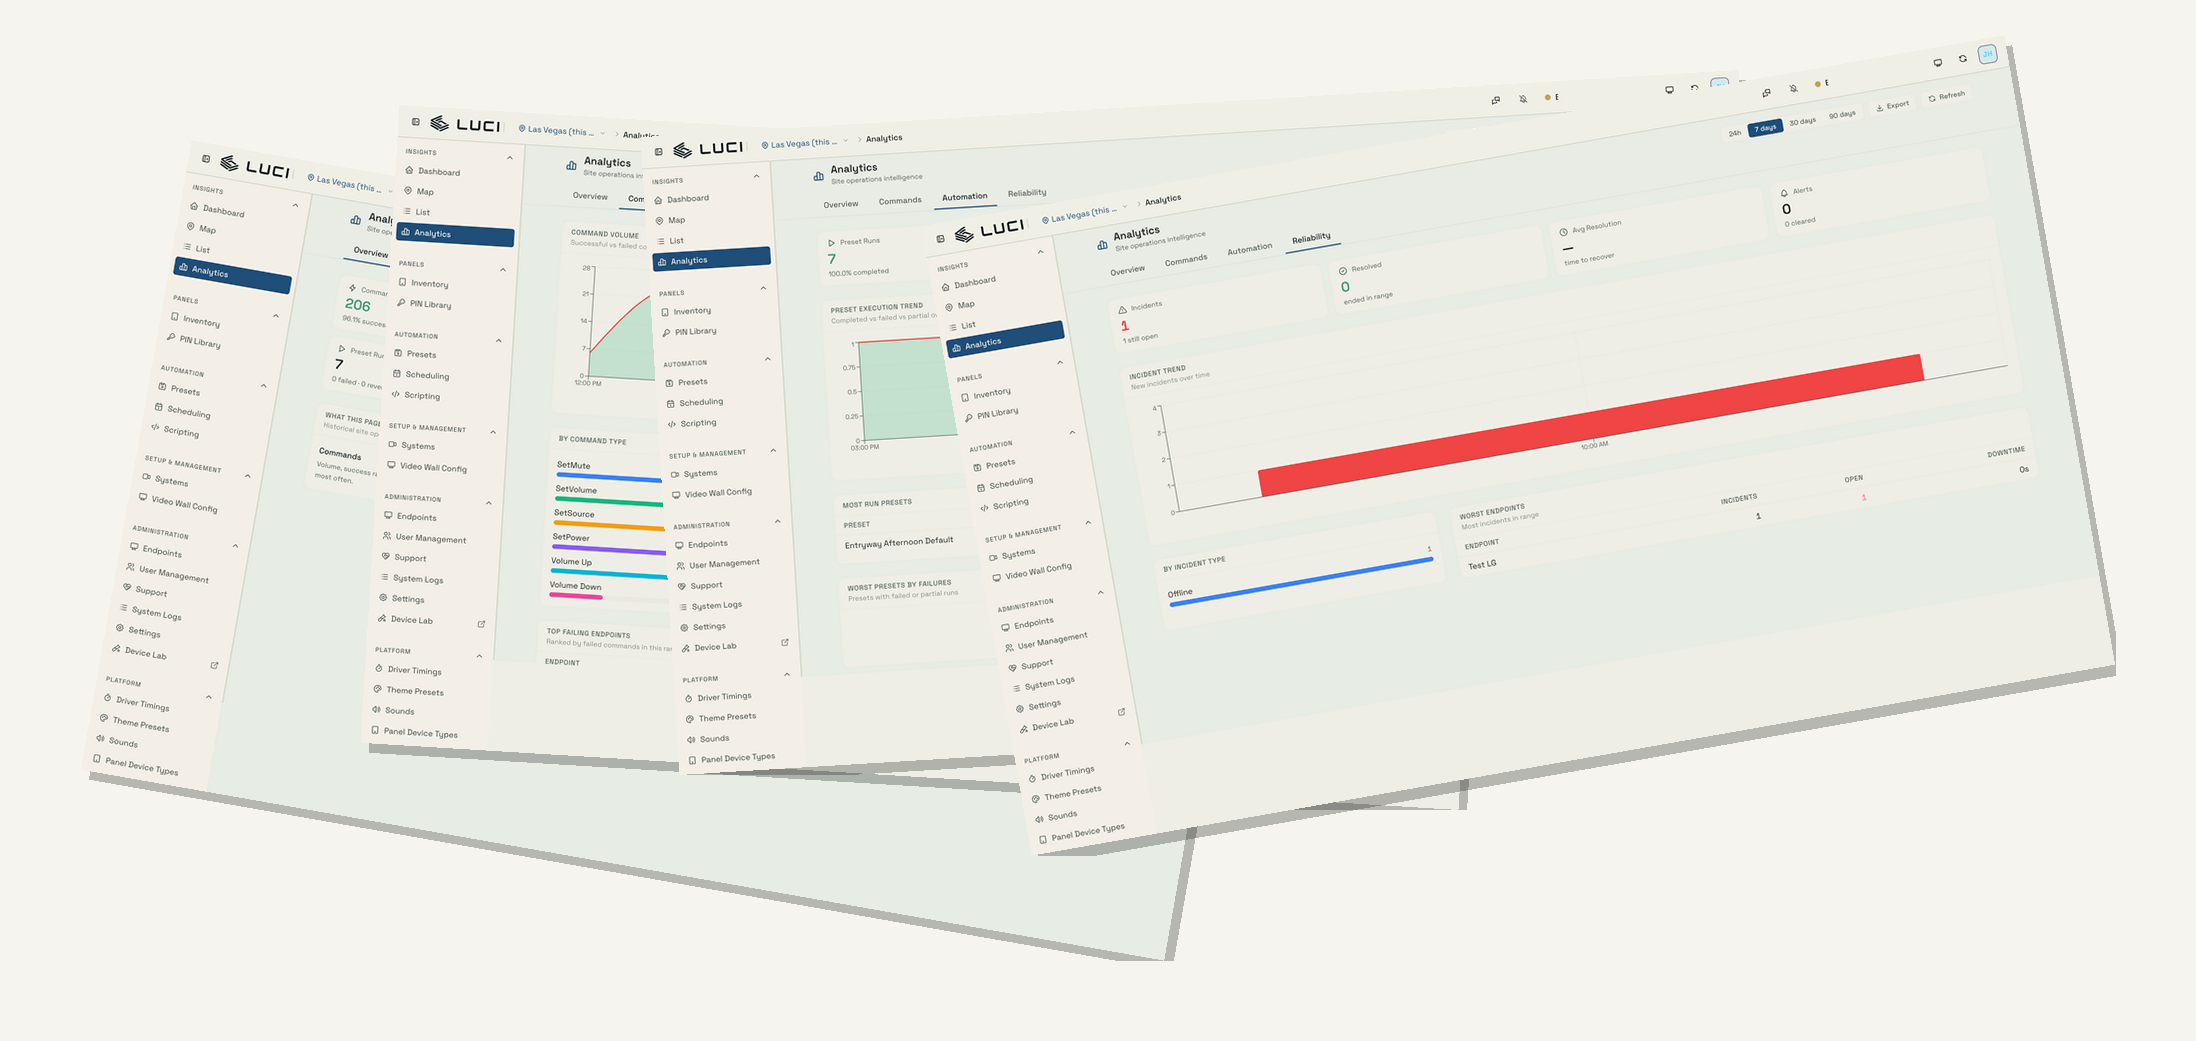
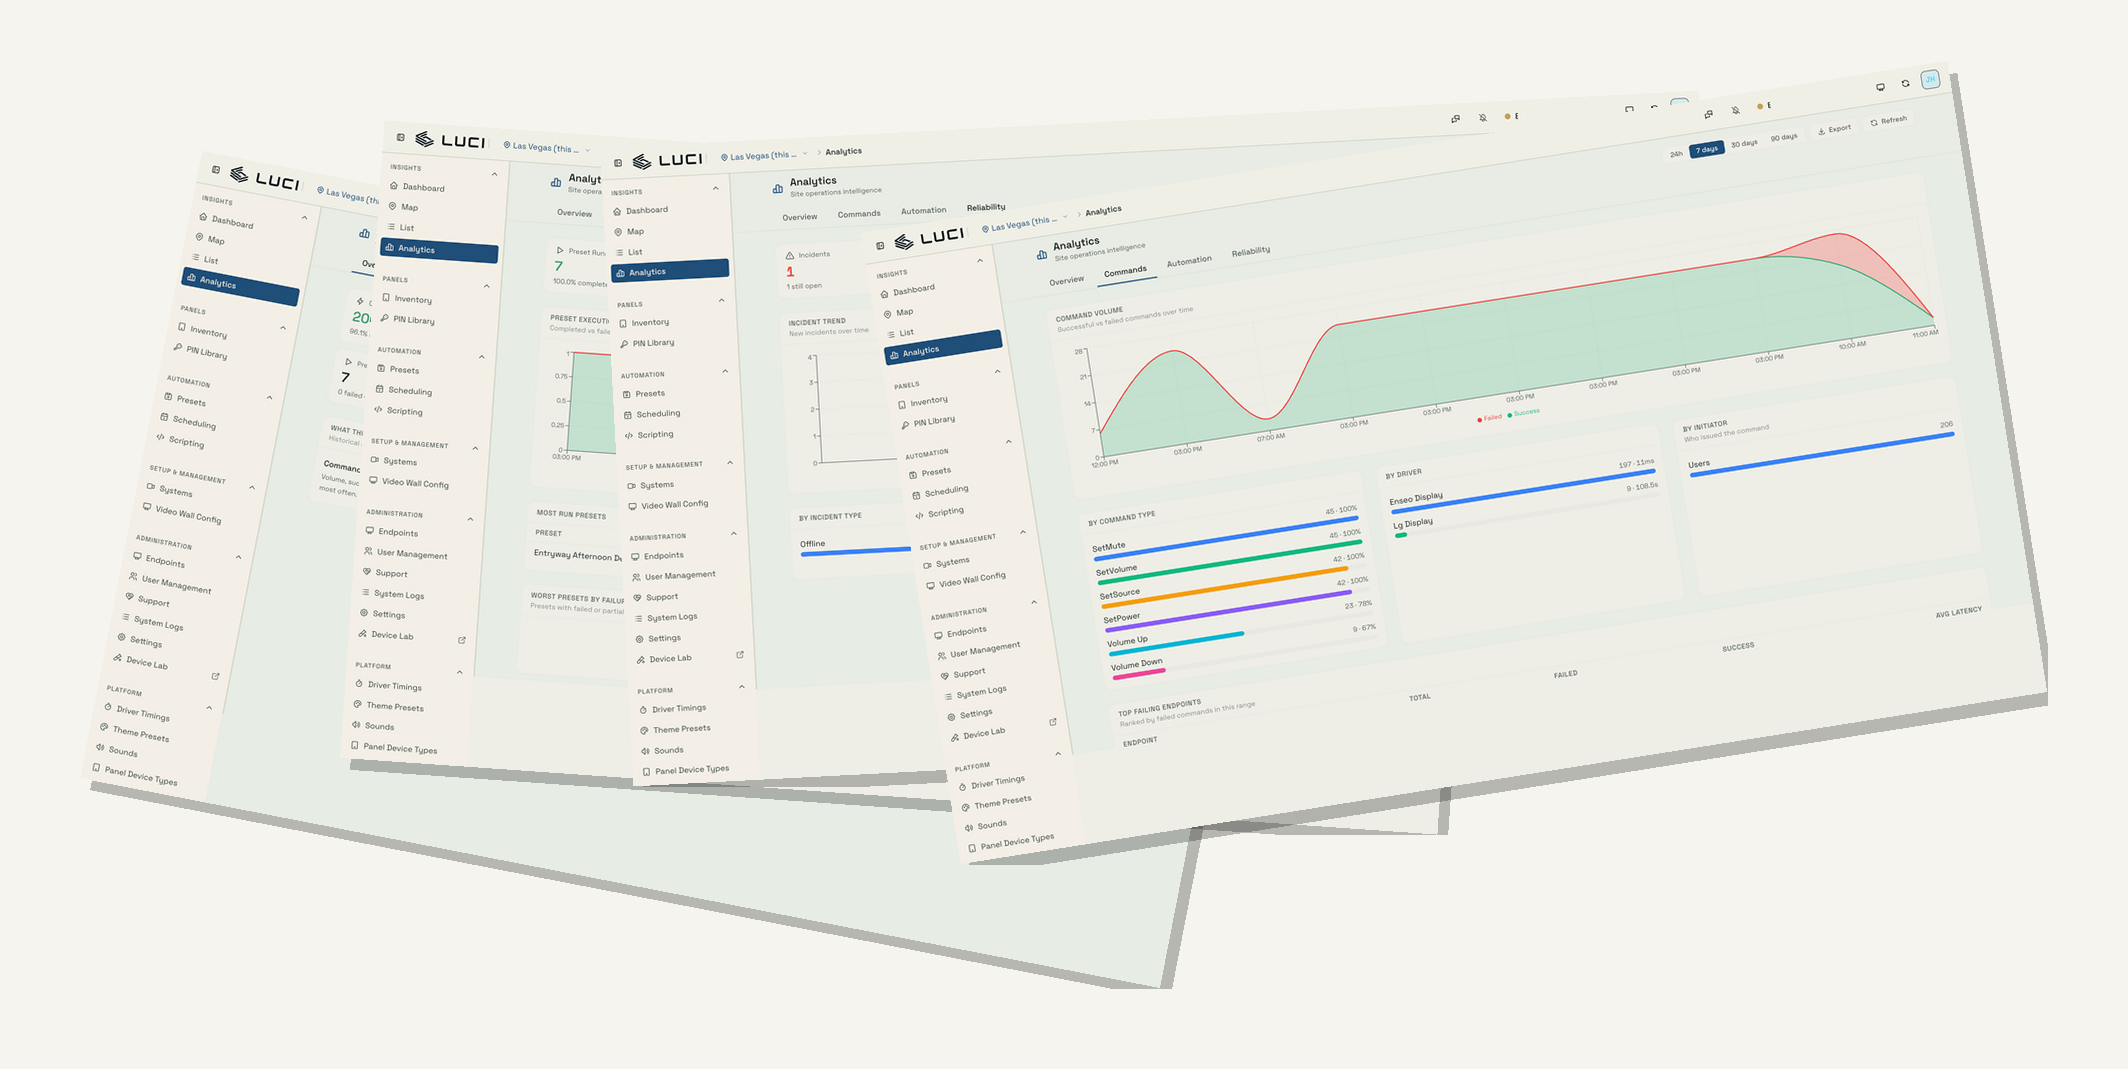
EOD Oct 7: IMP Review Queue cleanup + review mirror sync, CoS task calendar refresh, Signal 05 analytics fan update

diff --git a/COS-task-calendar.html b/COS-task-calendar.html
@@ -1,5 +1,8 @@
 <!DOCTYPE html>
-<html><head><meta charset="utf-8"><title>LUCI CoS calendar</title>
+<html lang="en">
+<head>
+<meta charset="UTF-8">
+<title>LUCI task calendar</title>
 <style>
   :root {
     --navy: #0A161C; --navy-2: #10232D; --mid: #314955; --ink: #354F5C;
@@ -39,11 +42,28 @@
   .pstatus { grid-column: 2; grid-row: 1 / span 2; align-self: center; text-align: right;
     font-size: 11px; letter-spacing: .06em; text-transform: uppercase; font-weight: 700; color: var(--accent); }
 </style>
-</head><body>
-<h1>LUCI marketing board</h1>
-<p class="updated">Updated 2026-09-30 · America/Los_Angeles</p>
-<p class="notes">Board refreshed Wed Sep 30 2026 morning snapshot. TOP Jane: Upgrade Guide review pile on .37 (asset-mock sticky nav + venue cards before cutover; hard-refresh pillar/intro/support passes); Upgrade email template copy this week; tomorrow Thu Oct 1 Start October Signal (Osage/Sand Springs In the Field). Wave 1: morning-reset + lighting live; revert-preset draft still open when bandwidth. Flow C one-pager r3 + Aliante/Yaamava case-study updates still on open list. Blue Chip Greg case-study call Fri Oct 3 8:30 AM PT. What’s New two-pager with Mike (non-urgent). No journey sends due through Oct 2 (next Clearwater Email 9 Oct 23). Mac COS-task-calendar.json still stamped Sep 14 — mirror is source of truth; sync Mac when Jane has a quiet minute.</p>
-<section><h2>Calendar</h2>
+</head>
+<body>
+<div class="page">
+  <header>
+    <div>
+      <div class="kicker">LUCI Systems · Chief of Staff</div>
+      <h1>Task calendar</h1>
+    </div>
+    <div class="meta">As of Wed Oct 7, 2026<br>Dates · projects · The Signal</div>
+  </header>
+  <h2>Projects in flight</h2>
+<div class="proj"><div class="title">New LUCI launch campaign</div><div class="next">What’s New two-pager done / in review with Mike (non-urgent). Upgrade Guide webpage in flight on .37. Upgrade email templates in flight — copy this week. Theme: Putting the power of programming in your hands.</div><div class="pstatus">In flight</div></div>
+<div class="proj"><div class="title">Website rebuild (luci-website)</div><div class="next">Astro site production-ready for cutover to lucisystems.com (confirmed Oct 7); Upgrade Guide Oct 6 work live on .37 for Mike review. Revert-preset Wave 1 draft still open. Platform page redo in flight.</div><div class="pstatus">In flight</div></div>
+<div class="proj"><div class="title">Website content library (prospect)</div><div class="next">Morning-reset + lighting published. Revert-preset draft still open for Jane. Aliante resources grid + featured swap DONE. What’s New two-pager done / in review with Mike. Then look lock by type / Maker / live.</div><div class="pstatus">In flight</div></div>
+<div class="proj"><div class="title">Customization Studio (standalone app, with Will)</div><div class="next">Not IMP. Jane not building studio in IMP. Review hub still for content reviews/downloads.</div><div class="pstatus">In flight</div></div>
+<div class="proj"><div class="title">Aliante case study + video + Signal</div><div class="next">Closed for current standup framing (Sep 25). Reel + case study live on Astro .37. Reopen only if Jane asks. Resources grid + featured swap DONE.</div><div class="pstatus">Held</div></div>
+<div class="proj"><div class="title">The Signal (October)</div><div class="next">Issue 05 picks locked Oct 6 (see item). Open for Jane: theme title iterations, Advice blurbs + section name, Minute with Mike pack, Osage Signal short (Ermintrude). Send ~Oct 15.</div><div class="pstatus">In flight</div></div>
+<div class="proj"><div class="title">Prospect nurture (ActiveCampaign)</div><div class="next">Split RESOLVED by the IMP email plan: high-intent past-demo get the private preview, broader warm opens at launch, anyone finishing a cycle without going to sales lands in Prospect Pulse (6 months, every 4-6 weeks). Build in ActiveCampaign after copy exists. No AC writes without Jane's yes.</div><div class="pstatus">In flight</div></div>
+<div class="proj"><div class="title">LinkedIn / social</div><div class="next">Mike reviewed the strategy. Hold until New LUCI product launch.</div><div class="pstatus">Held</div></div>
+<div class="proj"><div class="title">2026 tactics brief</div><div class="next">Four tactics now: be the answer (AEO + entity binding), YouTube one-job how-tos, extend the Capabilities doc into a real committee packet (finance/procurement page, security answer sheet, forwardable variant, champion objections), and a state-of property A/V report from field expertise. Trials cut. Waiting on Jane's picks.</div><div class="pstatus">In flight</div></div>
+<div class="proj"><div class="title">Osage Ponca City case study (web + Signal short)</div><div class="next">Consuelo full web case study, Ermintrude Signal short, from Brian docs + Project Media photos. Drafts for Jane browser approval first.</div><div class="pstatus">In flight</div></div>
+  <h2>Dated</h2>
 <div class="month">August</div>
   <div class="row done">
     <div class="box"></div>
@@ -129,7 +149,7 @@
     <div class="date">Oct 1 <span class="dow">Thursday</span></div>
     <div class="tag">Signal</div>
     <div><div class="title">Start October Signal</div><div class="client">The Signal</div></div>
-    <div class="badge soon">Tomorrow</div>
+    <div></div>
   </div>
   <div class="row ">
     <div class="box"></div>
@@ -160,23 +180,12 @@
     <div><div class="title">90-day check-in</div><div class="client">Clearwater River</div></div>
     <div></div>
   </div>
-</section>
-<section><h2>Open work</h2>
-<div class="open"><div class="title">Clearwater 30/60/90: Email 8 SENT Sep 23; Email 9 Oct 23; Email 10 Nov 22. AC automation add only after Jane yes.</div><div class="wait">Waiting: Jane yes on any AC write; Oct 23 Email 9 is next manual send</div></div>
-<div class="open"><div class="title">New LUCI Demo seminar/webinar: date, platform, speaker TBD</div><div class="wait">Waiting: Jane / Mike</div></div>
-<div class="open"><div class="title">ActiveCampaign prospect tracks (plan exists, not built)</div><div class="wait">Waiting: Jane to approve</div></div>
-<div class="open"><div class="title">Four Winds: start Aaron Herrbach + Matt Roach in Customer Journey when deposit is received</div><div class="wait">Waiting: Jane to confirm deposit received; then ask for exact AC approval before adding both at the beginning of the automation</div></div>
-<div class="open"><div class="title">New LUCI launch — open: Jane call on sign-in/session placement; sales deck/Capabilities; proof pull; email bodies; AC Deals; Nick Cloudflare/GA</div><div class="wait">Waiting: Jane / Mark / Nick as needed</div></div>
-</section>
-<section><h2>Projects</h2>
-<div class="proj"><div class="title">New LUCI launch campaign</div><div class="next">What’s New two-pager design locked, in Mike review queue (non-urgent). Upgrade Guide webpage in flight on .37. Upgrade email templates in flight — copy this week. Theme: Putting the power of programming in your hands.</div><div class="pstatus">In flight</div></div>
-<div class="proj"><div class="title">Website rebuild (luci-website)</div><div class="next">Fall launch. Morning-reset + lighting spotlights live on .37. Revert-preset Wave 1 draft still open. Upgrade Guide live review http://10.10.1.37/luci-upgrade-guide/. Resources/blog card layout polish queued.</div><div class="pstatus">In flight</div></div>
-<div class="proj"><div class="title">Website content library (prospect)</div><div class="next">Morning-reset + lighting published. Revert-preset draft still open for Jane. Flow C one-pager r3 + Aliante/Yaamava case-study updates still on her open list. Then look lock by type / Maker / live.</div><div class="pstatus">In flight</div></div>
-<div class="proj"><div class="title">Customization Studio (standalone app, with Will)</div><div class="next">Not IMP. Jane not building studio in IMP. Review hub still for content reviews/downloads.</div><div class="pstatus">In flight</div></div>
-<div class="proj"><div class="title">Aliante case study + video + Signal</div><div class="next">Closed for current standup framing (Sep 25). Reel + case study live on Astro .37. Reopen only if Jane asks.</div><div class="pstatus">Held</div></div>
-<div class="proj"><div class="title">The Signal (October)</div><div class="next">Issue 04 SENT Sep 16. Start October Signal Thu Oct 1 (Osage/Sand Springs In the Field cue ready). Send target Oct 15.</div><div class="pstatus">In flight</div></div>
-<div class="proj"><div class="title">Prospect nurture (ActiveCampaign)</div><div class="next">Split RESOLVED by the IMP email plan: high-intent past-demo get the private preview, broader warm opens at launch, anyone finishing a cycle without going to sales lands in Prospect Pulse (6 months, every 4-6 weeks). Build in ActiveCampaign after copy exists. No AC writes without Jane's yes.</div><div class="pstatus">In flight</div></div>
-<div class="proj"><div class="title">LinkedIn / social</div><div class="next">Mike reviewed the strategy. Hold until New LUCI product launch.</div><div class="pstatus">Held</div></div>
-<div class="proj"><div class="title">2026 tactics brief</div><div class="next">Four tactics now: be the answer (AEO + entity binding), YouTube one-job how-tos, extend the Capabilities doc into a real committee packet (finance/procurement page, security answer sheet, forwardable variant, champion objections), and a state-of property A/V report from field expertise. Trials cut. Waiting on Jane's picks.</div><div class="pstatus">In flight</div></div>
-</section>
-</body></html>
+  <h2>The Signal · running ideas</h2>
+  <div class="client" style="margin:-4px 0 10px">Send the 15th. Start about two weeks out.</div>
+<div class="idea">October Signal Issue 05 — prep ready Oct 1; Jane picks open; send ~Oct 15</div>
+  <h2>Parked</h2>
+<div class="idea parked">LinkedIn / social posting <span class="client">· Hold until New LUCI product launch.</span></div>
+<div class="idea parked">Case-study video skills (beat-mapping / Pass 1–2) <span class="client">· Jane pulled Sep 1. Do not use or edit until she sends replacements.</span></div>
+</div>
+</body>
+</html>
